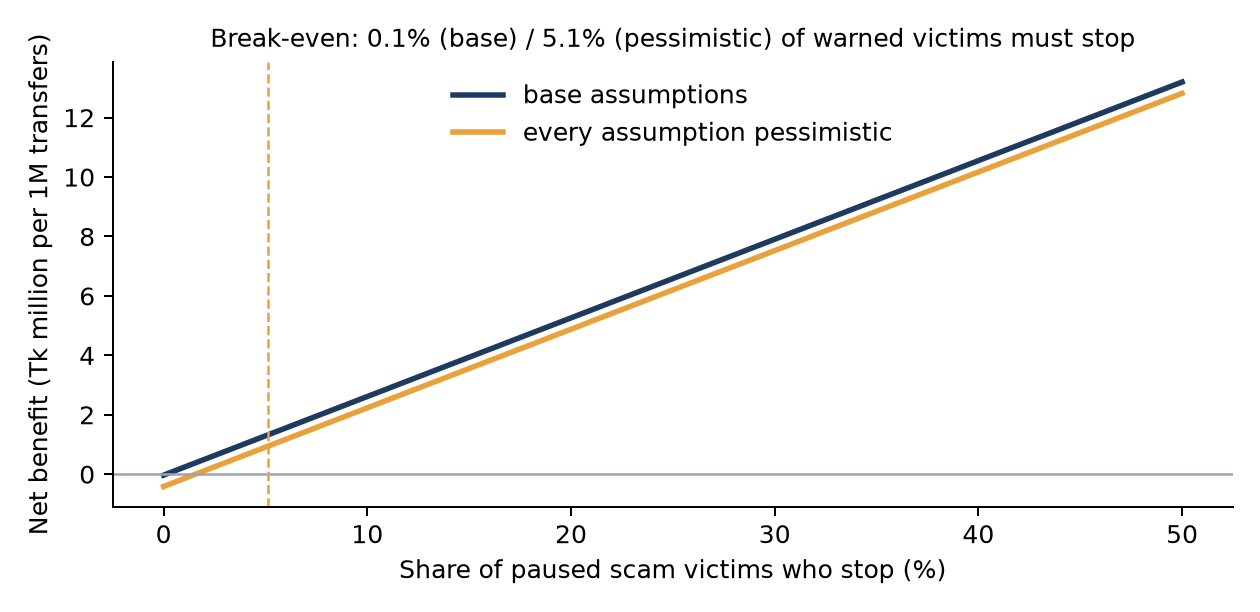
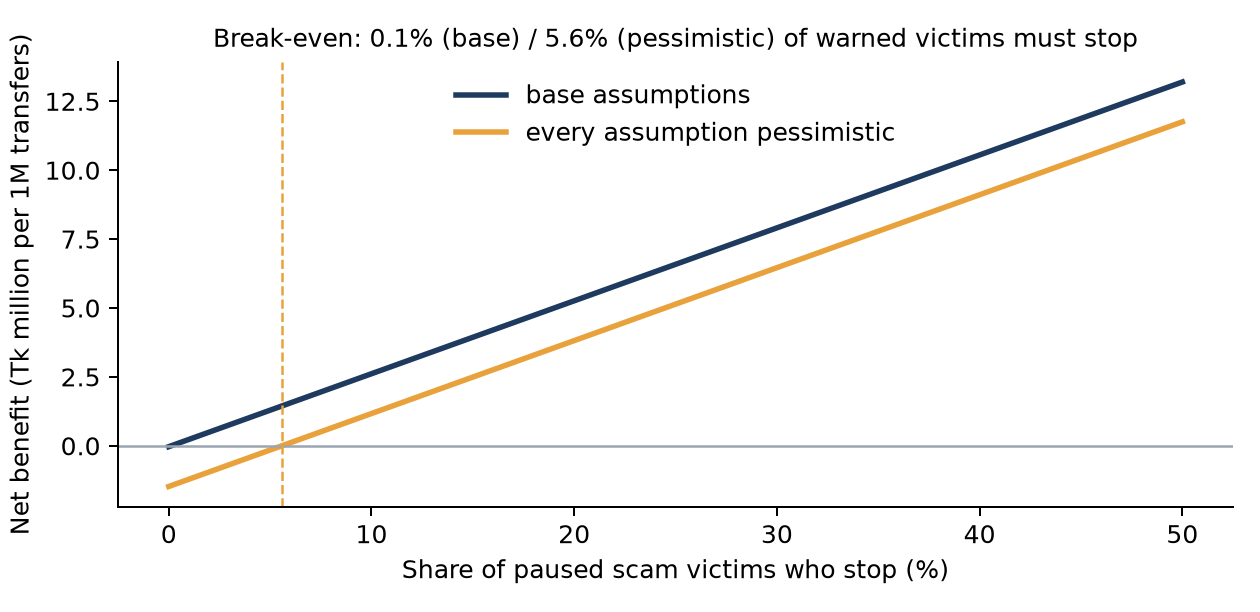
Business case: worst case now moves every assumption to its pessimistic end
The value of a customer's minute was set to its low (optimistic) end in the all-pessimistic
scenario, and the chart used a different worst case from the table. One explicit rule is now
used for both. Pessimistic break-even: 5.6% of paused victims (was reported as 5.1%).
The export also gains the calculator inputs and the scalability evidence builder.

diff --git a/scripts/phase2/export_phase2_web.py b/scripts/phase2/export_phase2_web.py
@@ -172,6 +172,35 @@ def business():
                    "series": [{"name": "cash-out requests refused", "values": [ag["usual_cash"]["requests_refused"], ag["uvera_forecast_q90"]["requests_refused"]]}]},
          "takeaway": f"{ag['customers_served_extra']:,} more customers served ({ag['refusals_avoided_share']:.0%} fewer refusals) and Tk {ag['unmet_bdt_recovered']:,.0f} of demand met, for Tk {ag['extra_cash_held_bdt_per_agent_day']:,.0f} more cash per agent-day. Field data: in Bangladesh 5% of agent transactions are denied for lack of float (Helix Institute)."},
     ]
+    labels = {"customer_minutes_lost_per_false_pause": ("Customer minutes lost per false pause", "min"),
+              "customer_value_per_minute_bdt": ("Value of a customer's minute", "bdt"),
+              "support_contact_rate_per_false_pause": ("Share of false pauses that call support", "pct"),
+              "support_contact_cost_bdt": ("Cost of one support contact", "bdt"),
+              "abandon_rate_after_false_pause": ("Share of falsely paused customers who give up", "pct"),
+              "fee_revenue_lost_per_abandoned_transfer_bdt": ("Fee revenue lost per abandoned transfer", "bdt"),
+              "analyst_cost_per_minute_bdt": ("Analyst cost per minute", "bdt"),
+              "minutes_per_unsure_review": ("Minutes per 'not sure' review", "min"),
+              "minutes_per_alert_item": ("Minutes per alert, plain alert list", "min"),
+              "minutes_per_linked_case": ("Minutes per linked case", "min"),
+              "server_cost_bdt_per_month": ("Servers per month", "bdt")}
+    pm = m["per_million"]
+    PESS_LOW = {"minutes_per_alert_item"}  # same rule as business_case.pessimistic()
+    ref10 = next((r for r in b["per_million_p2p_transfers"] if abs(r["follow_rate"] - 0.10) < 1e-9), None)
+    sections.insert(0, {
+        "id": "calculator", "title": "Don't trust our assumptions? Set your own.",
+        "lead": "Move any slider. The measured counts (per 1 million P2P transfers, unseen customers) stay fixed; everything else is yours.",
+        "chart": {"kind": "calculator",
+                  "per_million": {k: pm[k] for k in ("scam_money_paused_bdt", "false_pauses", "unsure_reviews", "alerts", "linked_cases")},
+                  "transfers_per_month": b["assumptions_low_base_high"]["p2p_transfers_per_month"][1],
+                  "assumptions": [{"key": k, "label": lab, "unit": u, "low": b["assumptions_low_base_high"][k][0], "base": b["assumptions_low_base_high"][k][1],
+                                   "high": b["assumptions_low_base_high"][k][2], "pessimistic": "low" if k in PESS_LOW else "high"} for k, (lab, u) in labels.items()],
+                  "follow_rate": {"min": 0.0, "max": 0.5, "base": 0.10},
+                  "markers": [{"label": "break-even (base)", "value": be["base_assumptions"]},
+                              {"label": "break-even (all pessimistic)", "value": be["all_assumptions_pessimistic"]},
+                              {"label": "NAB: 12% of flagged payments abandoned", "value": 0.12}],
+                  "check": {"follow_rate": 0.10, "net_benefit_bdt": ref10["net_benefit_bdt"] if ref10 else None,
+                            "break_even_follow_rate": be["base_assumptions"]}},
+        "takeaway": f"Even with every slider at its most pessimistic end, UVERA pays for itself once {be['all_assumptions_pessimistic']:.1%} of paused victims stop (about 1 in {round(1 / be['all_assumptions_pessimistic'])})."})
     headline = [{"label": "Break-even follow rate (base)", "value": be["base_assumptions"], "format": "pct1", "sub": f"pessimistic: {be['all_assumptions_pessimistic']:.1%}"},
                 {"label": "Scam money paused (unseen customers)", "value": m["share_of_scam_money_paused"], "format": "pct", "sub": f"false pauses {m['false_pauses_per_1000_normal']:.1f} per 1,000 normal"},
                 {"label": "Customers served instead of refused (agents, 2 test weeks)", "value": ag["customers_served_extra"], "format": "num", "sub": f"{ag['refusals_avoided_share']:.0%} fewer refusals"}]
@@ -288,7 +317,7 @@ def security():
         ["JWT key rotation and secrets", "key ring with key ids; retired keys rejected", "scripts/rotate_jwt_key.py; secrets from env or a file outside the repo"],
         ["Secrets in git history", "0 high-confidence findings in all commits", "scripts/secrets_scan.py over git log -p --all"],
         ["Dependency vulnerabilities", "none known (pinned and installed)", "pip-audit"],
-        ["Static code scan", "no exploitable finding; 2 issues fixed", "bandit (reports/security/security_scan.md)"],
+        ["Static code scan", "0 high findings; 3 issues fixed, the rest reviewed", "bandit (reports/security/security_scan.md)"],
         ["PII before the LLM", "phones, IDs, emails, cards, links removed", "ml/tests/test_pii.py"],
     ]
     return {"status": "measured", "title": "Security and governance, tested", "updated_at": NOW,
@@ -304,7 +333,108 @@ def security():
                         "Signing keys are random per start unless a key ring is configured; then tokens survive restarts."]}
 
 
+def scalability():
+    S = ROOT / "reports" / "scalability"
+    tr = load(S / "loadtest_transfer.json") or []
+    mono, host = load(S / "monolith_baseline.json") or [], load(S / "host_vs_monolith.json") or []
+    st, sh, par, dd = (load(S / f) for f in ("stream_ingest.json", "shadow_replay.json", "parity.json", "drift_demo.json"))
+    mixed = load(S / "loadtest_mixed.json") or []
+    if not tr:
+        return {"status": "pending", "title": "Scalability: measured on a scaled stack", "updated_at": None, "source": "deploy/scale -> reports/scalability",
+                "summary": "Load tests are running.", "headline": [], "sections": [], "caveats": []}
+    reps = sorted({r["replicas"] for r in tr})
+    top = max(reps)
+    best = {n: max((r for r in tr if r["replicas"] == n), key=lambda r: r["rps"]) for n in reps}
+    curve = sorted((r for r in tr if r["replicas"] == top), key=lambda r: r["concurrency"])
+    scale_x = best[top]["rps"] / best[reps[0]]["rps"] if best[reps[0]]["rps"] else None
+    errs = sum(r.get("errors", 0) for r in tr)
+    n_req = sum(r.get("n", 0) for r in tr)
+    # operating point: the busiest point at top replicas whose p95 stays under 250 ms
+    ok = [r for r in curve if r["latency_ms"]["p95"] <= 250] or curve[:1]
+    op = max(ok, key=lambda r: r["rps"])
+    sections = []
+
+    def chk(x):
+        return "yes" if x else "not measured"
+    arch = [
+        ["distributed queue / event stream", "Redis Streams + consumer group; feature worker applies every event", chk(st)],
+        ["shared cache", "Redis online feature store (Lua, atomic), read by every scorer replica", "yes (parity test below)" if par else "yes"],
+        ["persistent transactional database", "Postgres 16: decisions (batched COPY), alerts, cases, audit (transactions + advisory locks)", "yes (mixed workload)" if mixed else "yes"],
+        ["model-serving fleet", f"{top} stateless scorer replicas behind nginx (1 vCPU / 512 MB each)", f"yes: {len(tr)} load points, {n_req:,} requests"],
+        ["centralized monitoring", "Prometheus scrapes every replica + the worker; Grafana dashboard; PSI drift monitor", "yes (drift demo below)" if dd else "yes"],
+        ["demonstrated horizontal scaling", f"1 → {top} replicas", f"{scale_x:.1f}× throughput" if scale_x else "—"],
+    ]
+    sections.append({"id": "architecture", "title": "Each gap the judges named, and what now fills it",
+                     "lead": "deploy/scale/docker-compose.yml starts the whole stack with one command; deploy/scale/k8s has the cluster manifests.",
+                     "chart": {"kind": "table", "columns": ["judges' gap", "what fills it", "measured"], "units": ["text", "text", "text"], "rows": arch},
+                     "takeaway": "Every box in the Phase-1 gap list is now a running, load-tested component."})
+    sections.append({"id": "replicas", "title": "Horizontal scaling: peak throughput vs scorer replicas",
+                     "lead": "Transfer scoring through nginx; peak over the client counts tried for each replica count.",
+                     "chart": {"kind": "bars", "unit": "num", "x": [f"{n} replica{'s' if n > 1 else ''}" for n in reps],
+                               "series": [{"name": "transfers scored per second", "values": [best[n]["rps"] for n in reps]}]},
+                     "takeaway": f"{best[reps[0]]['rps']:.0f} → {best[top]['rps']:.0f} transfers/s ({scale_x:.1f}×) by adding replicas, no code change."})
+    sections.append({"id": "latency", "title": f"Latency vs concurrent clients ({top} replicas)",
+                     "lead": "Each request: online features from Redis, 19 features, LightGBM + calibration + conformal + novelty + policy, TreeSHAP when not low risk, decision queued to Postgres.",
+                     "chart": {"kind": "line", "unit": "ms", "x": [r["concurrency"] for r in curve], "x_label": "concurrent clients",
+                               "series": [{"name": p, "values": [r["latency_ms"][p] for r in curve]} for p in ("p50", "p95", "p99")]},
+                     "takeaway": f"At {op['concurrency']} clients: {op['rps']:.0f} transfers/s, p95 {op['latency_ms']['p95']:.0f} ms, errors {100 * op.get('error_rate', 0):.2f}%."})
+    if mono and host:
+        rows = [[f"{name}, {r['concurrency']} clients", r["rps"], r["latency_ms"]["p50"], r["latency_ms"]["p95"], r["latency_ms"]["p99"]]
+                for name, src in (("before: monolith", mono), ("after: scaled stack", host)) for r in src]
+        sections.append({"id": "before_after", "title": "Before vs after (same client, same transfers)",
+                         "lead": "The monolith endpoint does more per call (counterfactuals, note check, brief), so this compares the deployable architectures, not identical work.",
+                         "chart": {"kind": "table", "columns": ["system", "req/s", "p50 ms", "p95 ms", "p99 ms"], "units": ["text", "num1", "ms", "ms", "ms"], "rows": rows},
+                         "takeaway": "The Phase-1 single process tops out early; the scaled stack keeps latency flat as load grows."})
+    if mixed:
+        rows = []
+        for r in mixed:
+            for k, v in sorted(r["per_endpoint"].items()):
+                rows.append([f"{k} ({r['replicas']} replicas, {r['concurrency']} clients)", v["rps"], v["latency_ms"].get("p95"), v["errors"]])
+        sections.append({"id": "mixed", "title": "Mixed workload: scoring + text checks + alert/case writes in Postgres",
+                         "lead": "70% transfers, 20% SMS checks, 5% alert writes, 3% case links (advisory lock), 2% case reads.",
+                         "chart": {"kind": "table", "columns": ["endpoint", "req/s", "p95 ms", "errors"], "units": ["text", "num1", "ms", "num"], "rows": rows},
+                         "takeaway": "Transactional writes run alongside scoring without errors."})
+    if st:
+        rows = [[f"{r.get('label') or ''} {r['n_workers']} worker(s), target {r['target_rate']} ev/s", r["worker_events_per_s"], r["lag_ms_p50_max_over_workers"],
+                 r["lag_ms_p95_max_over_workers"], r["lag_ms_p99_max_over_workers"]] for r in st]
+        sections.append({"id": "stream", "title": "Event stream: producer → Redis Stream → feature worker → online store",
+                         "lead": "Lag = time from the event being published to its features being usable by every scorer (feature freshness).",
+                         "chart": {"kind": "table", "columns": ["run", "events applied / s", "lag p50 ms", "lag p95 ms", "lag p99 ms"], "units": ["text", "num", "ms", "ms", "ms"], "rows": rows},
+                         "takeaway": "Features are fresh within milliseconds of the event."})
+    if sh:
+        rows = [[name, s["transfers_scored"], s["scams_in_window"], s["recall_red"], s["precision_red"], s["false_pauses_per_1000_transfers"]] for name, s in sh["slices"].items()]
+        sections.append({"id": "shadow", "title": "Shadow-mode replay: the full test window streamed through the stack",
+                         "lead": sh.get("pipeline", ""),
+                         "chart": {"kind": "table", "columns": ["slice", "transfers scored", "scams", "recall (pause)", "precision (pause)", "false pauses / 1000"],
+                                   "units": ["text", "num", "num", "pct1", "pct1", "num1"], "rows": rows},
+                         "takeaway": f"End-to-end p95 {sh['latency_ms']['end_to_end_produce_to_decision']['p95']} ms from event to decision, {sh.get('decisions_per_s')} decisions/s sustained."})
+    if par:
+        pf = par["per_feature"]
+        same = sum(1 for v in pf.values() if v["exact_pct"] >= 99.9)
+        mb, mo = par["model_on_batch_features"]["window"], par["model_on_online_features"]["window"]
+        sections.append({"id": "parity", "title": "Training-serving parity: streaming features vs the batch training features",
+                         "lead": f"{par['rows']['joined']:,} test-window transfers; {same} of {len(pf)} features identical.",
+                         "chart": {"kind": "table", "columns": ["features used", "ROC-AUC", "PR-AUC", "recall at pause"], "units": ["text", "num3", "num3", "pct1"],
+                                   "rows": [["batch (training)", mb["roc_auc"], mb["pr_auc"], mb["recall_at_red"]], ["online (streaming)", mo["roc_auc"], mo["pr_auc"], mo["recall_at_red"]]]},
+                         "takeaway": f"Same risk level for {par['score_agreement']['same_risk_level_pct']}% of transfers: the model sees in production what it saw in training."})
+    if dd:
+        rows = [[p["name"], p["drift"]["status"], p["drift"]["max_psi"], ", ".join(t["feature"] for t in p["drift"]["top_drifted"][:2])] for p in dd["phases"]]
+        sections.append({"id": "drift", "title": "Drift monitoring (PSI; warn 0.1, alert 0.2)", "lead": dd.get("what", ""),
+                         "chart": {"kind": "table", "columns": ["phase", "status", "max PSI", "top drifted"], "units": ["text", "text", "num3", "text"], "rows": rows},
+                         "takeaway": "A shifted input stream raises an alert on its own; this is the trigger for retraining and the registry's approval step."})
+    head = [{"label": f"Throughput, {top} replicas", "value": best[top]["rps"], "format": "num", "sub": "transfers scored per second"},
+            {"label": f"Scaling 1 → {top} replicas", "value": r3(scale_x), "format": "x", "sub": "same code, more copies"},
+            {"label": f"p95 latency at {op['concurrency']} clients", "value": op["latency_ms"]["p95"], "format": "ms", "sub": f"{n_req:,} requests, {errs} errors"}]
+    return {"status": "measured", "title": "Scalability: a distributed stack, load-tested", "updated_at": NOW,
+            "source": "deploy/scale (docker compose) -> reports/scalability/*.json (deploy/scale/report.py)",
+            "summary": "The Phase-1 single process is now an event stream, an online feature store, a transactional database, a fleet of model replicas and central monitoring, each measured under load.",
+            "headline": head, "sections": sections,
+            "caveats": ["Measured on one laptop (Docker, 12 threads shared by every container and the load generator), not a cluster; absolute numbers are a floor.",
+                        "The Kubernetes manifests in deploy/scale/k8s are a template; they were not run on a cluster."]}
+
+
 if __name__ == "__main__":
+    write("scalability", scalability())
     write("security", security())
     write("robustness", robustness())
     write("ablation", ablation())

diff --git a/scripts/phase2/business_case.py b/scripts/phase2/business_case.py
@@ -49,6 +49,12 @@ ASSUME = {  # [low, base, high]
     "server_cost_bdt_per_month": [3000.0, 6000.0, 15000.0],
     "p2p_transfers_per_month": [1_000_000, 1_000_000, 1_000_000],
 }
+# the end of each range that makes UVERA look worse (every other assumption: the high end)
+PESSIMISTIC_LOW = {"minutes_per_alert_item", "cashout_fee_rate", "p2p_transfers_per_month"}
+
+
+def pessimistic():
+    return {k: (v[0] if k in PESSIMISTIC_LOW else v[2]) for k, v in ASSUME.items()}
 
 
 def measured():
@@ -136,8 +142,7 @@ def break_even(meas, agent, a):
 def main():
     meas, agent, st = measured(), agent_service(), study()
     base = {k: v[1] for k, v in ASSUME.items()}
-    worst = {k: (v[2] if "cost" in k or "minutes_lost" in k or "rate_per" in k or "abandon" in k or "lost_per" in k or "review" in k
-                 or k in ("minutes_per_linked_case", "server_cost_bdt_per_month") else v[0]) for k, v in ASSUME.items()}
+    worst = pessimistic()
     if st and st.get("analyst_triage", {}).get("minutes_per_alert_item_measured"):
         base["minutes_per_alert_item"] = st["analyst_triage"]["minutes_per_alert_item_measured"]
         base["minutes_per_linked_case"] = st["analyst_triage"]["minutes_per_linked_case_measured"]
@@ -179,7 +184,7 @@ def charts(out):
     # 1. net benefit vs follow rate
     fr = np.linspace(0, 0.5, 101)
     meas, agent, base = out["measured"], out["agent_service"], {k: v[1] for k, v in ASSUME.items()}
-    worst = {k: v[2] if k not in ("cashout_fee_rate", "p2p_transfers_per_month") else v[0] for k, v in ASSUME.items()}
+    worst = pessimistic()
     fig, ax = plt.subplots(figsize=(7, 3.4))
     for a, lab, col in ((base, "base assumptions", NAVY), (worst, "every assumption pessimistic", AMBER)):
         ax.plot(fr * 100, [economics(meas, agent, a, f)["net_benefit_bdt"] / 1e6 for f in fr], color=col, lw=2.2, label=lab)
